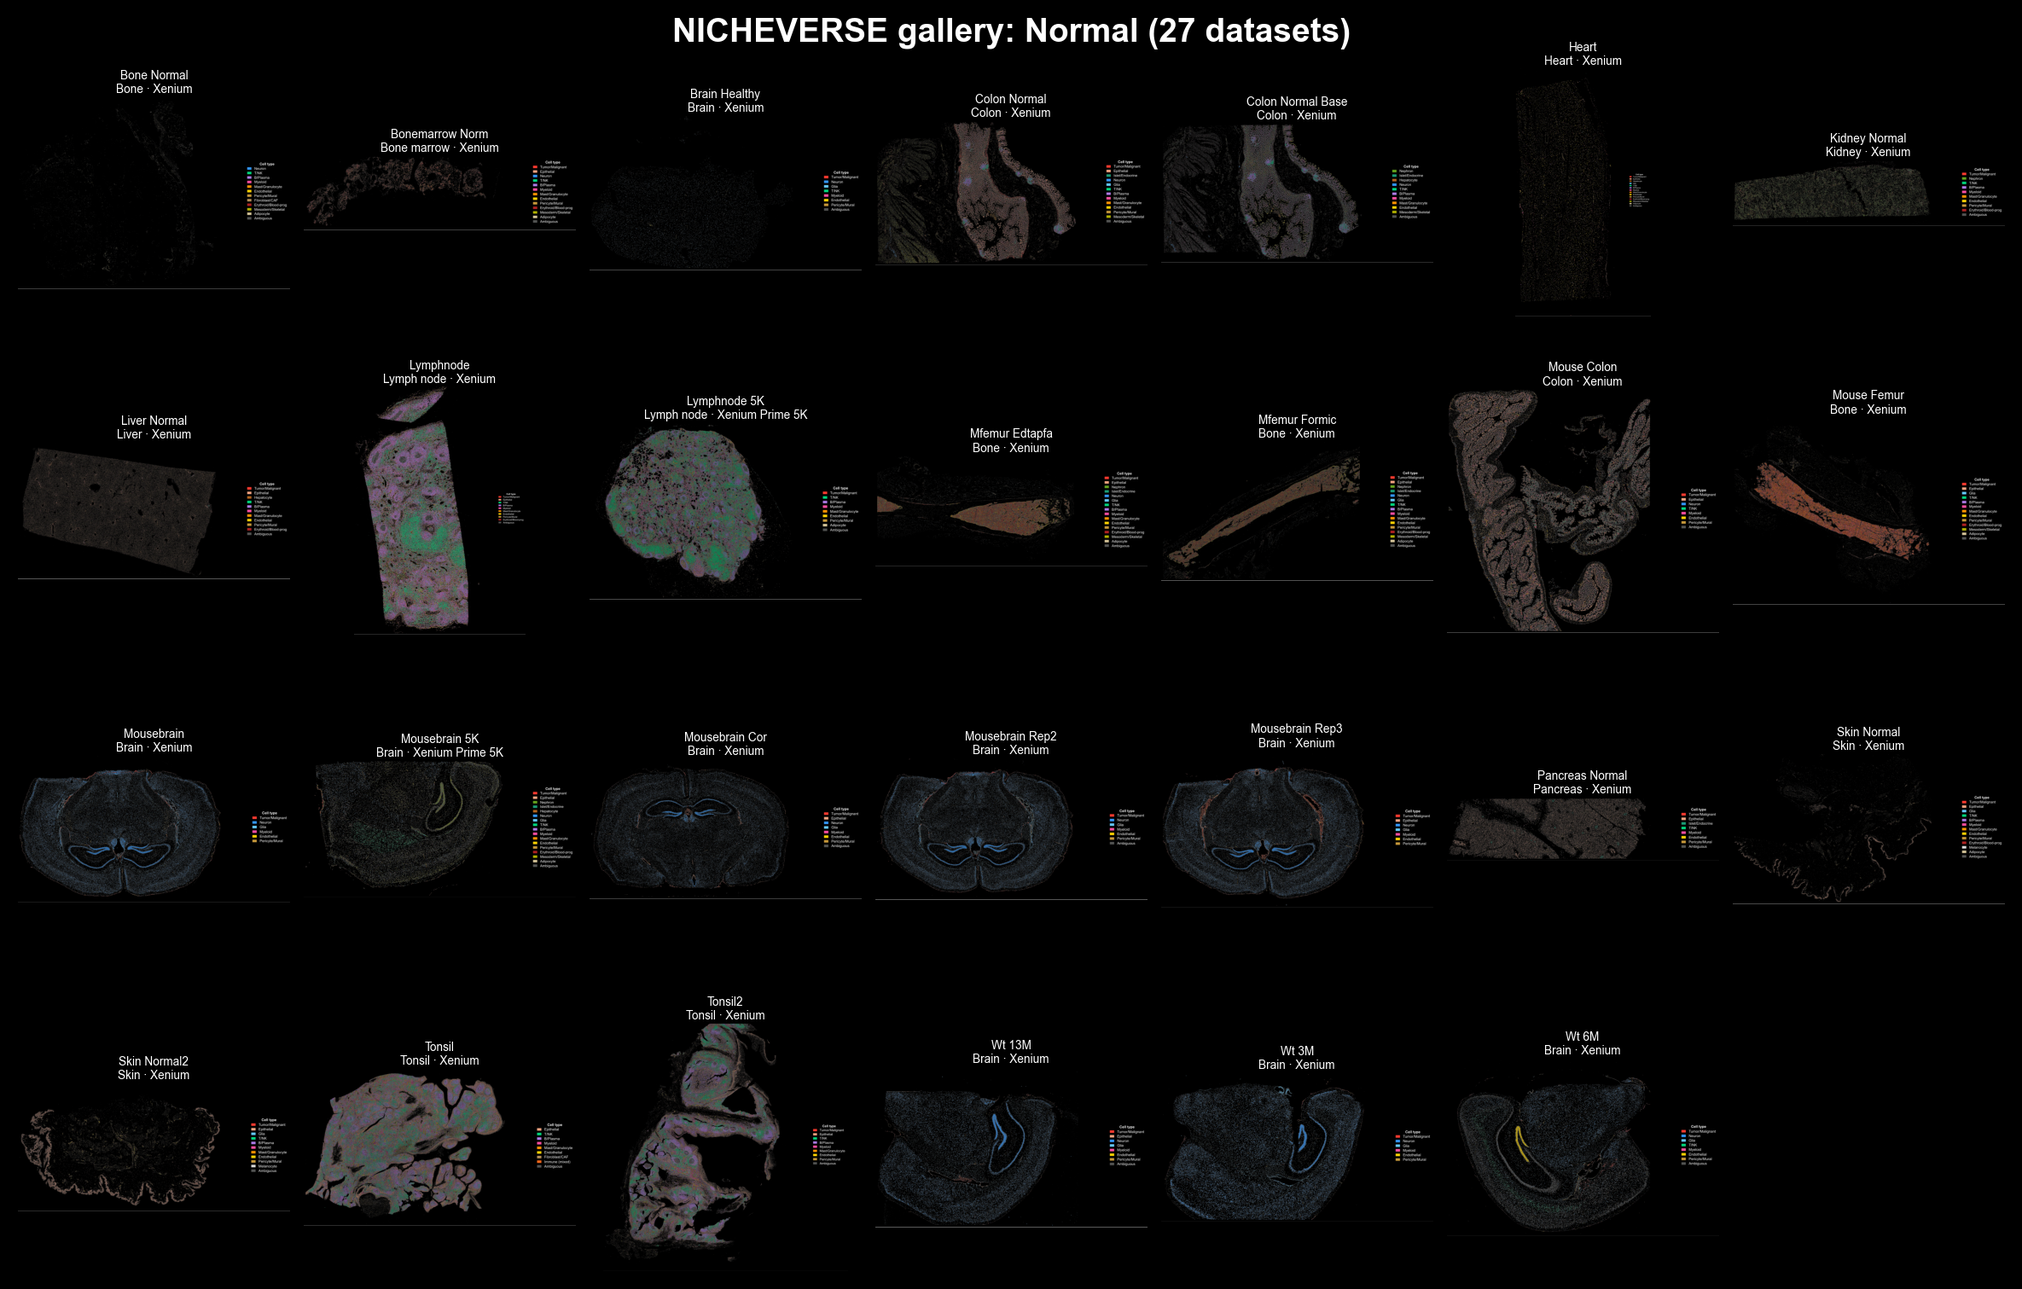
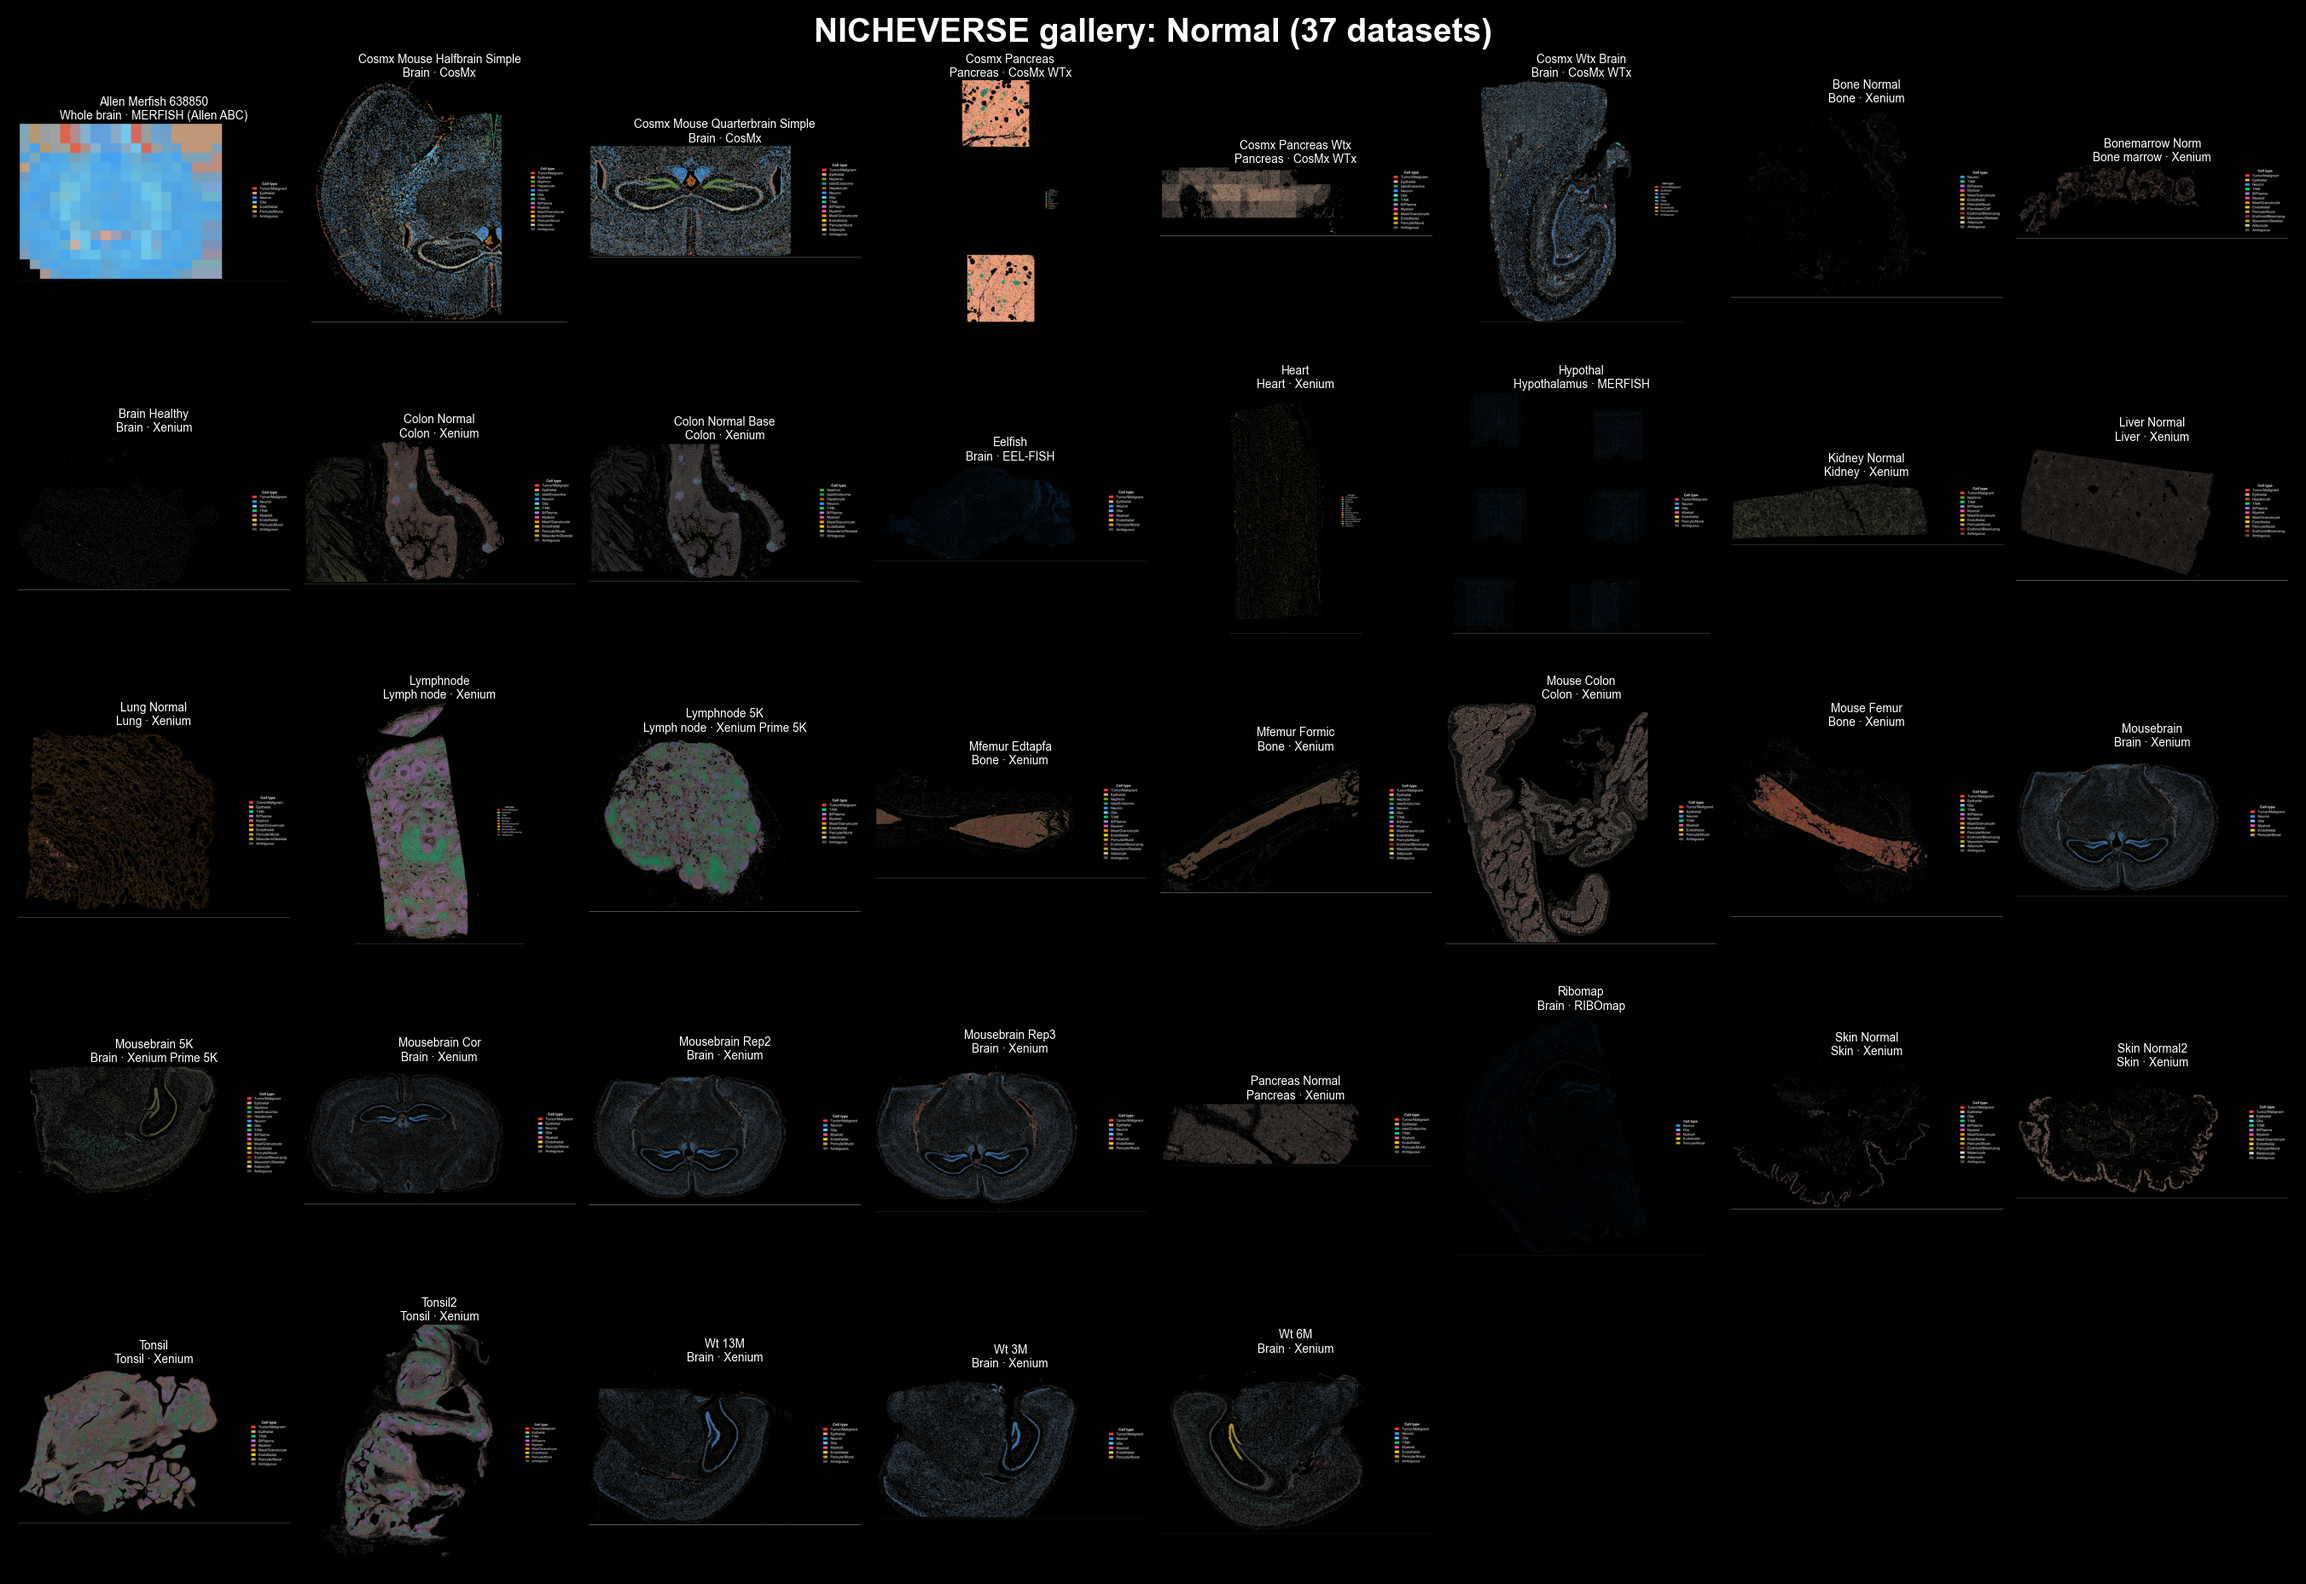
gallery: all 101 public datasets fully plotted; exclude in-house rcc_patient_flex
- CosMx polygons now plot correctly (composite fov_cellID id, global-px coords,
  whole-section instead of per-fov tiling): cosmx_kidney/pancreas/pancreas_wtx/
  wtx_brain/multiomic_breast_rna/mouse half+quarterbrain
- pub_breast_idc renders via centroid fallback (boundary barcodes did not match
  positional adata index); mode cascade POLYGON->TRANSCRIPT->CENTROID
- 22 boundary-free datasets (MERFISH/seqFISH/RIBOmap/EEL-FISH/dev) plotted via
  nucleus-centroid datashader fallback
- exclude in-house rcc_patient_flex (patient cores, treatment-labeled) from public catalogue
- add 12 pub_breast_bm_* catalogue entries (0 Unknown sites)
- homepage totals: 101 datasets / 1,294 samples / 33M cells / 20 tissues / 6 platforms

diff --git a/docs/index.md b/docs/index.md
@@ -26,11 +26,11 @@ API reference
 ```
 
 <dl class="nv-homestats" id="nv-homestats" data-src="_static/gallery_data.json" aria-label="Atlas totals">
-  <div class="nv-hs"><dd id="nv-hs-datasets">100+</dd><dt>datasets</dt></div>
-  <div class="nv-hs"><dd id="nv-hs-samples">1,409</dd><dt>samples</dt></div>
-  <div class="nv-hs"><dd id="nv-hs-cells">35M</dd><dt>cells mapped</dt></div>
-  <div class="nv-hs"><dd id="nv-hs-sites">21</dd><dt>tissues</dt></div>
-  <div class="nv-hs"><dd id="nv-hs-plat">7</dd><dt>platforms</dt></div>
+  <div class="nv-hs"><dd id="nv-hs-datasets">101</dd><dt>datasets</dt></div>
+  <div class="nv-hs"><dd id="nv-hs-samples">1,294</dd><dt>samples</dt></div>
+  <div class="nv-hs"><dd id="nv-hs-cells">33M</dd><dt>cells mapped</dt></div>
+  <div class="nv-hs"><dd id="nv-hs-sites">20</dd><dt>tissues</dt></div>
+  <div class="nv-hs"><dd id="nv-hs-plat">6</dd><dt>platforms</dt></div>
 </dl>
 ::::
 
